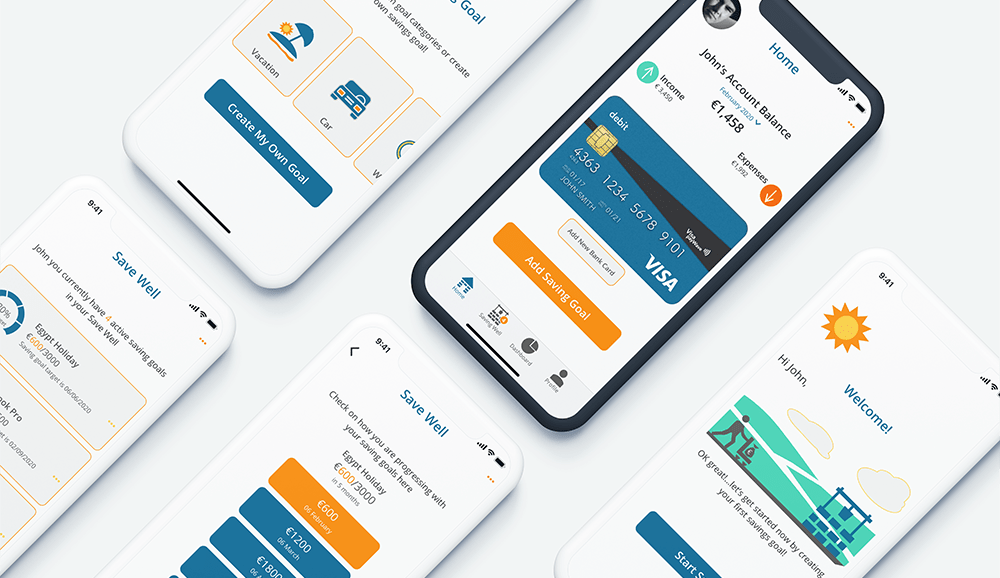
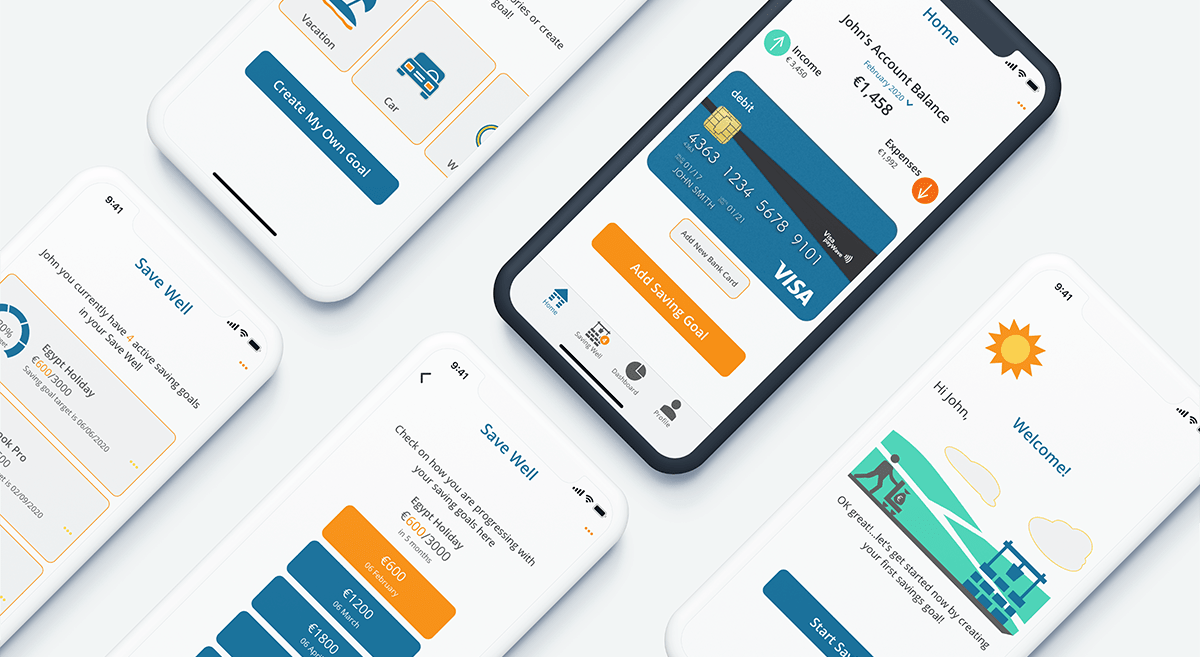
updating index page

diff --git a/index.html b/index.html
@@ -88,9 +88,7 @@
     <br>
      <p class=" script_l image-padding">
    My interests lie in technology, products and people
-      and especially how design can solve human centered problems. My background includes working in data analytics and 
-      customer insights but these days I follow a user centered design approach
-      to create beautiful products that people love to use.</p>
+      and especially how design can be used to overcome human centered problems.</p>
       
        
    
@@ -178,7 +176,7 @@
    <div class="col-xs-12 col-sm-12 col-md-12 image-padding table-top-padding ">
      <div class="portfolio">
      <a href="portfolio/savewell.html">
-     <img src="assets/images/save_well_dshot_small-min.png" style="background-color:#FFF;" class="img-responsive" alt="Splash">
+     <img src="assets/images/save_well_dshot_smaller-min.png" style="background-color:#FFF;" class="img-responsive" alt="Splash">
      
    <div class="work-text-content">
     <h1>'Save Well'</h1>
@@ -188,11 +186,11 @@
      </div>
      </div>
      
+        </div> <!-- close row -->
      
      
-     
-   
-   <div class="col-xs-12 col-sm-6 col-md-12   image-padding table-top-padding">
+    <div class="row">
+   <div class="col-xs-12 col-sm-6 col-md-6   image-padding table-top-padding">
      <div class="portfolio">
      <a href="portfolio/healthymove.html">
      <img src="assets/images/meal_mockup.png" style="background-color:#FFF;" class="img-responsive" alt="Meal_screen">
@@ -204,6 +202,19 @@
      </a>
      </div>
      </div>
+     
+      <div class="col-xs-12 col-sm-6 col-md-6 image-padding table-top-padding">
+      <div class="portfolio">
+          <a target="_blank" href="https://www.dribbble.com/desflaherty">
+    <img src="assets/images/dribbble_shots_lg.png" style="background-color:#FFF;" class="img-responsive" alt="Splash">   
+    <div class="work-text-content">
+    <h1>'Dribbble Portfolio'</h1>
+    <h2><i>UI Design Concepts</i></h2>
+     </div>
+     </a>
+     </div>
+   </div>
+        
      
       </div> <!-- close row -->
     
